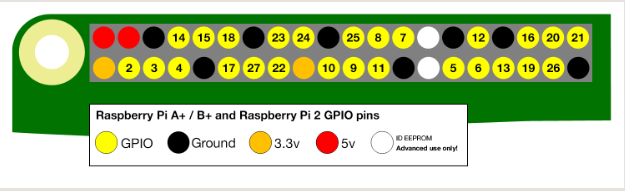
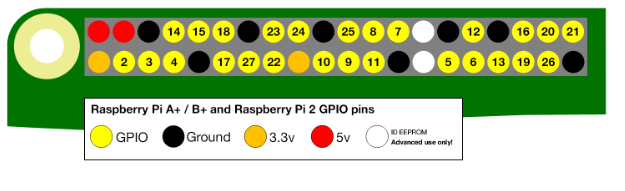
README and iamges update

diff --git a/README.md b/README.md
@@ -40,8 +40,10 @@ To recreate a PKE system we will need the following hardware:
 ## Hardware Setup
 To set up the hardware follow the instructions:
 - You will need to get wire the transmitter and receiver to the Raspberry Pi
-  - Transceiver and receiver:
-  - Raspberry Pi pin locations: ![image](/images/gpio_pins.png)
+  - **Raspberry Pi pin locations**:
+  ![image](/images/gpio_pins.png)
+  - **Wiring**:
+  ![image](/images/wiring.png)
 
 
 ## Software
